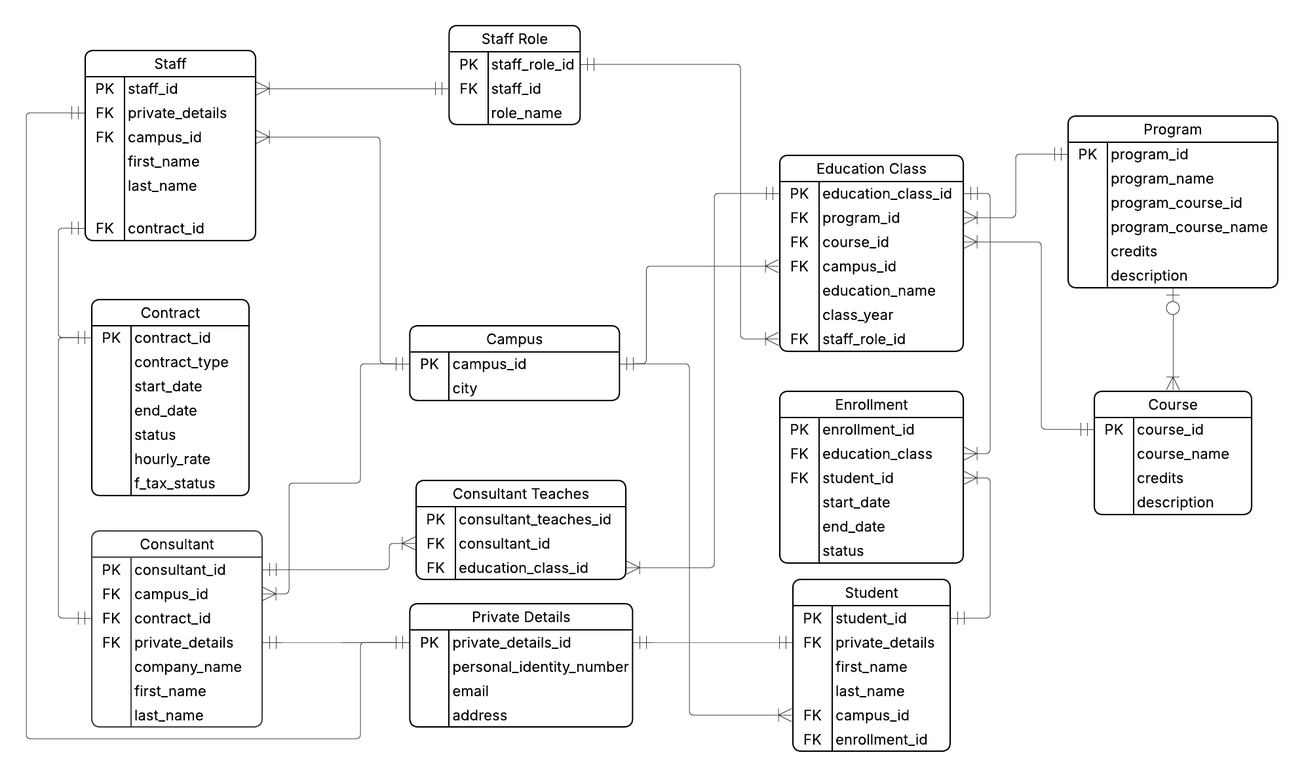
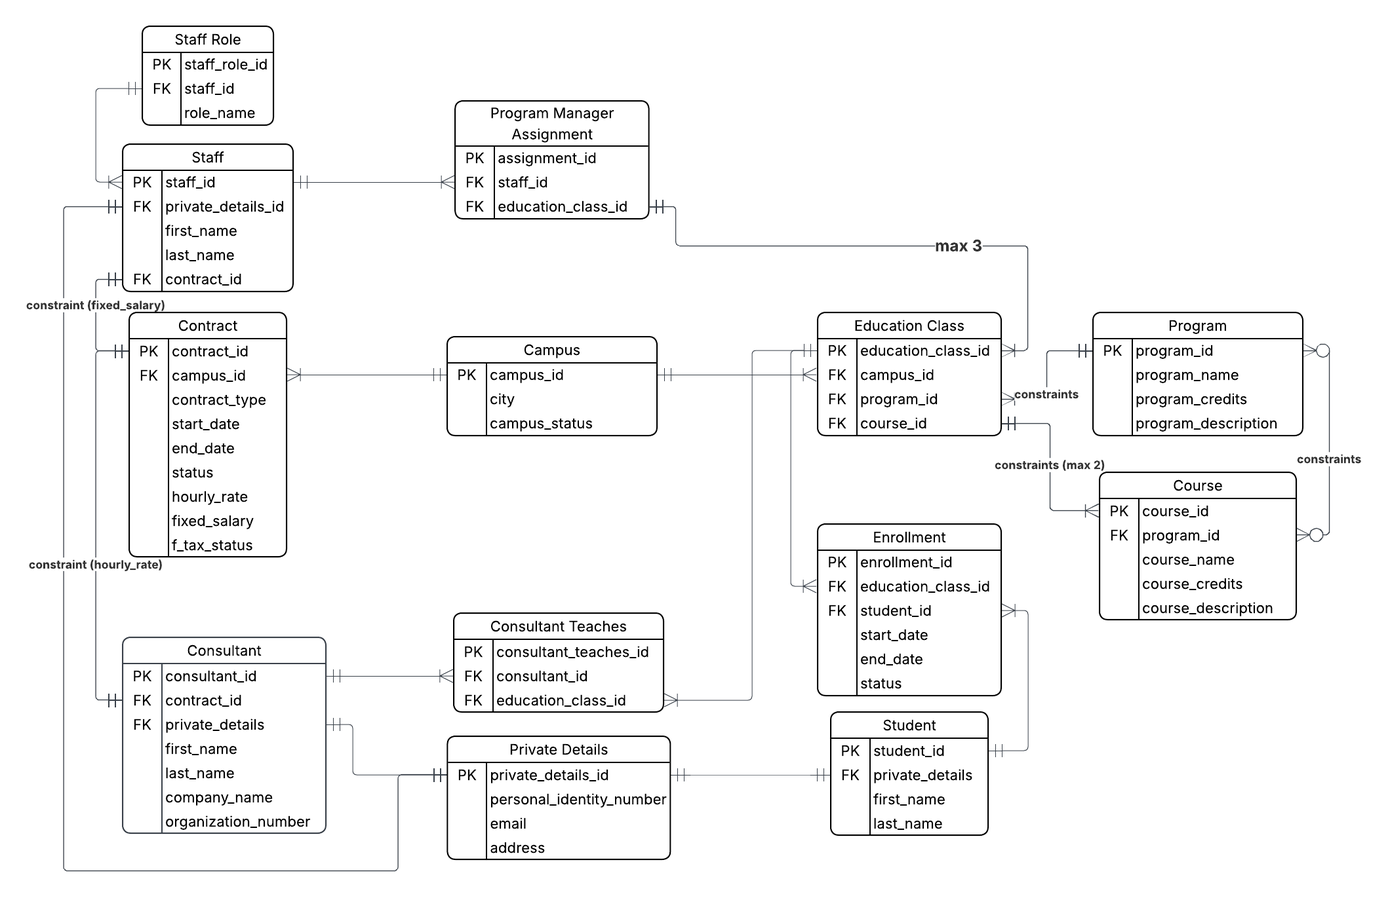
(feat): logical model: business requirements. (chore): Conceptual Model, Entities and Cardinalities.

diff --git a/documentation/conceptual.md b/documentation/conceptual.md
@@ -1,54 +1,51 @@
 # Conceptual Model
 ## Goal: 
-- Map out the big picture. Focus on the "things" (Entities) and how they relate (Relationships).
-- **The Stakeholder / the business explicitly forbids unresolved M:N, so bridge tables are already created in a CDM level.**
+- Map out the big picture for the business stakeholders. Focus on the "things" (Entities) and how they relate (Relationships).
 
 ![Conceptual Model](../assets/Conceptual.png)
 
 ## Entity Descriptions
 
-### Conceptual ERD – Entity Descriptions
-
-## Entity Descriptions (Easy English)
-
-| Entity | Description |
-|------|------------|
-| **Student** | A person who studies at the school. A student can join one program class or up to two standalone course classes in the same term, but not both at the same time. |
-| **Education Class** | A specific class offering of a program or course for a certain year and campus (for example DE 24 or AI 25). This is where teaching and student enrollment happen. |
-| **Program** | A two-year education made up of several courses, including a required internship (LIA). Each program is approved multiple times, creating several education classes over the years. |
-| **Course** | A standalone course with a set length, credits, and content. It is not part of a program and does not include an internship (LIA). |
-| **Campus** | A physical school location where classes take place and where staff and consultants work. The model allows new campuses to be added in the future. |
-| **Staff** | Employees of the school, such as program managers and administrative staff. Each staff member has one active role at a time, defined by their contract. |
-| **Staff Role** | Describes the job role a staff member has during an active contract. In this model, only the Program Manager role is included, but more roles can be added later. |
-| **Consultant** | External people hired to teach or support classes. Consultants work under contracts that define their role, campus, and time period. |
-| **Enrollment** | Shows that one student is enrolled in one education class. It connects students to the classes they attend. |
-| **Contract** | A work agreement for staff or consultants. It defines the role, campus, and time period, and allows future-dated contracts for planned hires. |
-| **Private Details** | Stores sensitive personal or company information, such as personal identity numbers, contact details, and consultant company data. This information is kept separate for security reasons. |
+| Entity                 | Description                                                                                                                                                                                                           |
+| ---------------------- | --------------------------------------------------------------------------------------------------------------------------------------------------------------------------------------------------------------------- |
+| **Student**            | A person studying at the school. A student enrolls in education classes through enrollment records. Business rules control whether a student enrolls in a program class or standalone course classes in a given term. |
+| **Education Class**    | A concrete, approved delivery of a program or course for a specific year and campus (for example, DE 24 or AI 25). Teaching, management, and student enrollment happen at this level.                                 |
+| **Program**            | A two-year education consisting of multiple courses, including a mandatory internship (LIA). Each program can be approved multiple times, resulting in multiple education classes over different years.               |
+| **Course**             | A standalone course with defined credits, duration, and content. Courses are not part of programs and do not include LIA. Each course can be delivered through multiple education classes over time.                  |
+| **Campus**             | A physical school location where education classes are held and where staff and consultants are assigned. The model supports future campus expansion.                                                                 |
+| **Staff**              | Internal employees of the school, such as program managers or administrative staff. Each staff member has exactly one active contract at a time.                                                                      |
+| **Staff Role**         | Defines the role a staff member holds during a contract period. In this model, Program Manager is explicitly modeled, with the ability to add more roles later.                                                       |
+| **Consultant**         | External professionals hired to teach or support education classes. Consultants work under time-limited contracts and may represent an external company.                                                              |
+| **Contract**           | A time-bound agreement for staff or consultants that defines role, campus assignment, and employment period. Only one contract may be active per person at any time.                                                  |
+| **Consultant Teaches** | A bridge entity that represents teaching assignments between consultants and education classes, resolving a many-to-many relationship.                                                                                |
+| **Enrollment**         | Represents a student’s enrollment in an education class. Each enrollment links exactly one student to exactly one education class.                                                                                    |
+| **Private Details**    | Stores sensitive personal or company information, such as personal identity numbers, contact details, and consultant company data. This data is isolated for security and access control purposes.                    |
 
 
+## Relationship Descriptions
 
-## Relationship Description:
-
-| Entity A | Entity B | Cardinality | Relationship Statement |
-|--------|----------|------------|------------------------|
-| **Program** | **Education Class** | 1 → many | One program is approved and delivered through multiple education classes over different years. |
-| **Course** | **Education Class** | 1 → many | One course can be delivered through multiple education classes over time. |
-| **Campus** | **Education Class** | 1 → many | One campus hosts multiple education classes. |
-| **Staff** | **Contract** | 1 → 1 (active) | Each staff member has exactly one active contract at a time that defines their role and campus assignment. |
-| **Consultant** | **Contract** | 1 → 1 (active) | Each consultant has exactly one active contract at a time defining their assignment and campus. |
-| **Staff Role** | **Contract** | 1 → many | A staff role can be assigned to many contracts over time, but each contract defines exactly one role. |
-| **Staff** | **Staff Role** | many → 1 (via Contract) | Each staff member holds exactly one role at a time, as defined by their active contract. |
-| **Education Class** | **Staff (Program Manager)** | many → 1 | Each education class is managed by exactly one staff member acting as Program Manager. |
-| **Staff (Program Manager)** | **Education Class** | 1 → many | One program manager is responsible for multiple education classes (minimum three). |
-| **Consultant** | **Consultant Teaches** | 1 → many | One consultant can teach multiple education classes. |
-| **Education Class** | **Consultant Teaches** | 1 → many | One education class can be taught by multiple consultants. |
-| **Consultant Teaches** | **Consultant** | many → 1 | Each teaching assignment belongs to exactly one consultant. |
-| **Consultant Teaches** | **Education Class** | many → 1 | Each teaching assignment belongs to exactly one education class. |
-| **Education Class** | **Enrollment** | 1 → many | One education class has many student enrollments. |
-| **Enrollment** | **Education Class** | many → 1 | Each enrollment belongs to exactly one education class. |
-| **Student** | **Enrollment** | 1 → many | One student can have multiple enrollments over time, but each enrollment represents one class. |
-| **Enrollment** | **Student** | many → 1 | Each enrollment belongs to exactly one student. |
-| **Student** | **Private Details** | 1 → 1 | Each student has exactly one set of private personal information. |
-| **Staff** | **Private Details** | 1 → 1 | Each staff member has exactly one set of private personal information. |
-| **Consultant** | **Private Details** | 1 → 1 | Each consultant has exactly one set of private personal or company-related information. |
-
+| Entity A                    | Entity B                    | Cardinality    | Relationship Statement                                                                                |
+| --------------------------- | --------------------------- | -------------- | ----------------------------------------------------------------------------------------------------- |
+| **Program**                 | **Education Class**         | 1 → many       | One program can be approved and delivered through multiple education classes over different years.    |
+| **Course**                  | **Education Class**         | 1 → many       | One course can be delivered through multiple education classes over time.                             |
+| **Campus**                  | **Education Class**         | 1 → many       | One campus hosts multiple education classes.                                                          |
+| **Staff**                   | **Contract**                | 1 → 1 (active) | Each staff member has exactly one active contract at a time.                                          |
+| **Consultant**              | **Contract**                | 1 → 1 (active) | Each consultant has exactly one active contract at a time.                                            |
+| **Staff Role**              | **Contract**                | 1 → many       | A staff role can be assigned to many contracts over time, but each contract defines exactly one role. |
+| **Education Class**         | **Staff (Program Manager)** | many → 1       | Each education class is managed by exactly one staff member acting as Program Manager.                |
+| **Staff (Program Manager)** | **Education Class**         | 1 → many       | One program manager is responsible for multiple education classes, with a minimum of three.           |
+| **Consultant**              | **Consultant Teaches**      | 1 → many       | One consultant can have multiple teaching assignments.                                                |
+| **Education Class**         | **Consultant Teaches**      | 1 → many       | One education class can have multiple consultant teaching assignments.                                |
+| **Consultant Teaches**      | **Consultant**              | many → 1       | Each teaching assignment belongs to exactly one consultant.                                           |
+| **Consultant Teaches**      | **Education Class**         | many → 1       | Each teaching assignment belongs to exactly one education class.                                      |
+| **Education Class**         | **Enrollment**              | 1 → many       | One education class can have many student enrollments.                                                |
+| **Enrollment**              | **Education Class**         | many → 1       | Each enrollment belongs to exactly one education class.                                               |
+| **Student**                 | **Enrollment**              | 1 → many       | One student can have multiple enrollments over time.                                                  |
+| **Enrollment**              | **Student**                 | many → 1       | Each enrollment belongs to exactly one student.                                                       |
+| **Student**                 | **Private Details**         | 1 → 1          | Each student has exactly one set of private personal information.                                     |
+| **Staff**                   | **Private Details**         | 1 → 1          | Each staff member has exactly one set of private personal information.                                |
+| **Consultant**              | **Private Details**         | 1 → 1          | Each consultant has exactly one set of private personal or company-related information.               |
+| **Staff**                      | **Program Manager Assignment** | 1 → many    | One staff member can have multiple program manager assignments over time. |
+| **Education Class**            | **Program Manager Assignment** | 1 → many     | Each education class have exactly one program manager assignment.    |
+| **Program Manager Assignment** | **Staff**                      | many → 1    | Each assignment belongs to exactly one staff member.                      |
+| **Program Manager Assignment** | **Education Class**            | 1 → 1       | Each Project Manager assignment links to many (max 3) education class.         |

diff --git a/documentation/business_requirements.md b/documentation/business_requirements.md
@@ -1,30 +1,204 @@
-# Business Clarifications
-### 1. Staffs, Consultants and Roles
-- Instructors: Can be permanent staff or external consultants.
-- Program Managers: Staff members who must manage at least three Education Classes. 
-- Each Education Class has exactly one manager. Can hold Education Class ie. (DE 24, DE 25, AI 24, AI 25, ...)
-- A staff member has exactly **one role at a time,** defined by their **active contract.**<br>
+# Business Requirements Documentation
+This document consolidates business domain / entity, and each section clearly describes business rules.
 
-#### 2. Program vs. Course (BONUS)
-- A Program consists of multiple courses over time.
-- A student can either:
-    - enroll in one program, or
-    -enroll in up to two (max) standalone courses per term.
-- A student cannot be enrolled in a program and standalone courses at the same time.
-- Enrollment represents exactly one student in exactly one education class.
-- A Course can belong to zero or one Program (standalone allowed)
-- Course must be either program or standalone (never both)
-- `program_id` IS `NOT NULL` → course is part of a program
-- `program_id` IS `NULL` → course is standalone
+## 1. Core Design Principles
+### 1.1 Modeling Scope
+- The database models a vocational school, Yrkesco, operating across multiple campuses.
+- The model supports programs, courses (including standalone courses), students, staff, consultants, education class, campus and contracts.
+- All many-to-many relationships are resolved via associative entities.
+- The model must satisfy Third Normal Form (3NF).
 
-### 3. System & Data Design
-- Security: Sensitive personal data is isolated in a separate table for strict access control. Sensitive Informations is in a separate secured table. It tracks company staffs and consultant details (Org#, F-tax, address, hourly rates, etc) and cannot be accessed publicly.
-- Planned employment of permanent instructors / consultants are handled through the Contract entity by allowing future-dated permanent contracts.
-<br>
-- Contracts: Used to manage staff roles and pre-plan future permanent hires.
-- A role for staffs and consultants cannot change unless the **contract is ended and a new one is created.**
-- Campus: Consultants and staffs are assigned **strictly to one campus per contract.**
-- The Campus table currently includes Gothenburg and Stockholm and allows future campuses to be added.
-<br>
-- Locations: Currently Gothenburg and Stockholm, but built to add more cities easily.
-- Flexibility: The model is built to allow new rules later without redesigning the foundation.
+### 1.2 Security & Data Governance
+- Sensitive personal or company-related data is isolated in a dedicated Private Details entity.
+- Private Details is not publicly accessible and is referenced via foreign keys only.
+- No sensitive attributes are duplicated across entities.
+
+## 2. People & Identity
+### 2.1 Student
+- Business Rules
+    - A student represents an individual studying at the school.
+    - A student enrolls in education classes via enrollment records.
+
+- A student can:
+    - enroll in one program, OR
+    - enroll in up to two standalone courses per term.
+    - A student may not be enrolled in a program and standalone courses at the same time.
+
+    - “how to enforce it?”, answer:
+        - Partial unique constraints
+        - CHECK constraints + subqueries
+        - Triggers
+        - Application-layer validation
+
+### Logical / Normalization Rules
+- Student stores only identity-level attributes.
+- Sensitive attributes are stored in Private Details.
+
+- Relationship:
+    - Student 1 → many Enrollment
+
+### 2.2 Staff
+- A staff and consultant has exactly **one role at a time,** defined by their **active contract.**
+
+| **Agreement**        | **Staff (Employee)**                       | **Consultant (External)**                   |
+| -------------------- | ------------------------------------------ | ------------------------------------------- |
+| Role status          | Internal employee of the school            | External service provider                   |
+| Contract type        | Permanent Employment contract              | Consulting/service agreement                |
+| Work scope (100%)    | Full-time employment                       | Full-time engagement (not employment)       |
+| Tax & social charges | Handled and reported by the school         | Handled by the consultant                   |
+| Legal responsibility | School is employer                         | Consultant is an independent business       |
+
+- Business Rules
+    - Staff are internal employees of the school.
+    - Each staff member has exactly one active contract at a time.
+    - Staff roles cannot change without ending the current contract.
+
+- Logical / Normalization Rules
+    - Staff references Contract and Private Details.
+
+- Salary rules:
+    - fixed_salary IS NOT NULL
+    - hourly_rate IS NULL
+
+### 2.3 Consultant
+- Business Rules
+    - Consultants are external service providers.
+    - Consultants only teach education classes.
+
+- Logical / Normalization Rules
+    - Consultant references Contract and Private Details.
+
+- Compensation rules:
+    - hourly_rate IS NOT NULL
+    - fixed_salary IS NULL
+
+### 2.4 Private Details
+- Business Rules
+    - Stores sensitive personal or company information.
+    - Includes personal identity number, email and address.
+
+- Logical / Normalization Rules
+    - One-to-one relationship with Student, Staff, and Consultant.
+    - No transitive dependencies.
+
+## 3. Contracts & Roles
+### 3.1 Contract
+
+- Business Rules
+    - A contract defines contract type, dates, status, hourly_rate, fixed_salary, f_tax_status, campus_id.
+    - Only one active contract is allowed per person.
+    - Contracts support planned employment.
+    - A role for staffs and consultants cannot change unless the **contract is ended and a new one is created.**
+    - Contracts are private and cannot be publicly accessed.
+
+
+- Logical / Normalization Rules
+    - Contract binds to exactly one Campus.
+    - Contract enforces role immutability during its active period.
+
+    - `Staff` → `fixed_salary` **IS NOT NULL** AND `hourly_rate` **IS NULL**
+    - `Consultant` → `hourly_rate` **IS NOT NULL** AND `fixed_salary` **IS NULL**
+
+### 3.2 Staff Role
+
+- Business Rules
+    - Defines staff responsibilities (e.g., Program Manager, VD, Admin, etc.).
+
+    - Each contract defines exactly one staff role.
+
+## 4. Education Structure
+### 4.1 Program
+
+- Business Rules
+    - A program is a two-year education consisting of multiple courses.
+    - Includes mandatory internship (LIA).
+    - Each program is approved multiple times, creating multiple education classes.
+
+- Logical / Normalization Rules
+    - Program 1 → many Education Classes
+
+### 4.2 Course
+
+- Business Rules
+    - A course has course name, credits, description, and program_id.
+
+- A course can either:
+    - belong to 0 or more programs ie.(Python -> DE24, DE25), OR
+    - be a standalone course.
+
+- Logical / Normalization Rules
+    - program_id nullable
+    - Constraint-based classification:
+    - IF `program_id` IS NOT NULL AND `course_id` IS NULL → program course
+    - IF `program_id` IS NULL AND `course_id` IS NOT NULL → standalone course
+    - And vice versa
+
+### 4.3 Education Class
+- Business Rules
+    - An Education Class is the only entity that connects Students to Programs or Courses.
+    - Represents an approved delivery of a program or course for a education_class and campus.
+    - Must be associated with either one Program or 1 or 2 (2 max) Course, never both.
+
+
+- Logical / Normalization Rules
+    - Mutually exclusive foreign keys:
+    - Exactly one of program_id or course_id must be populated.
+    - IF `program_id` IS NULL AND `course_id` IS NOT NULL → Student studies COURSE
+    - IF `program_id` IS NOT NULL AND `course_id` IS NULL → Student studies program
+
+## 5. Enrollment
+### 5.1 Enrollment
+
+- Business Rules
+    - Enrollment links one student to one education class.
+    - An education class may have many enrollments.
+
+- Logical / Normalization Rules
+    - Resolves the many-to-many relationship between Student and Education Class.
+
+## 6. Teaching & Management Assignments
+### 6.1 Consultant Teaches
+- Business Rules
+    - Consultants may teach multiple education classes.
+    - Education classes may be taught by multiple consultants.
+
+- Logical / Normalization Rules
+    - Resolves Consultant ↔ Education Class many-to-many relationship.
+
+### 6.2 Program Manager Assignment
+- Business Rules
+    - Each education class must have exactly one program manager.
+    - A program manager must manage at least three education classes.
+    - Maximum of three concurrent classes per program manager.
+
+- Logical / Normalization Rules
+    - Staff 1 → many Program Manager Assignments
+    - Education Class 1 → 1 Program Manager Assignment
+
+## 7. Campus
+### 7.1 Campus
+- Business Rules
+    - Represents a physical school location.
+    - Current campuses: Gothenburg and Stockholm.
+    - Supports future expansion.
+
+- Logical / Normalization Rules
+    - Campus 1 → many Education Classes
+
+    - Campus 1 → many Contracts
+    - Campus is derived via joins and not duplicated on dependent entities
+
+## 8. ### `Staff Role` Associate Table
+- The requirements mention different staff responsibilities but do not clearly define how staff roles are assigned.
+- To model staff responsibilities clearly and ensure that each staff member has one active role at a time, a `Staff Role` entity has been added.
+- This entity defines the role a staff member holds during an active contract.
+
+## 9. `Consultant Teaches` Associate Table
+- Instructors may be consultants but do not explain how consultants are assigned to education classes.
+- To model this clearly and avoid many-to-many relationships, a `Consultant Teaches` entity has been added.
+- This entity links a consultant to an education class they teach.
+
+## 9. `Program Manager Assignment` Associate Table
+- The requirements state that each education class must have a program manager, but do not explain how this assignment is handled.
+- To model this clearly and enforce the responsibility rules, a Program Manager Assignment entity has been added.
+- This entity links a program manager to the education classes they manage.

diff --git a/documentation/logical.md b/documentation/logical.md
@@ -1,18 +1,36 @@
 # Logical Model & Normalization (1NF -> 2NF -> 3NF)
 ## Goal: 
-- Refine the conceptual model into a formal structure. This is where I define primary keys and ensure my tables are organized efficiently.
+- Refine the conceptual model into a formal structure. This is where I define primary keys and ensure my tables and attributes are 3NF validated.
 
 ![Logical Model](../assets/Logical.png)
 
+## Consultant, Staff and Staff Role → Contract
+nforces “one role per active contract”
+- All attributes are still fully dependent on the primary key
+- No attribute is dependent on another isolated attribute 
+- No data redundancy exists if constraints are enforced in the model and business requirements
+    - `Staff` → `fixed_salary` **IS NOT NULL** AND `hourly_rate` **IS NULL**
+    - `Consultant` → `hourly_rate` **IS NOT NULL** AND `fixed_salary` **IS NULL**
 
-## Normalization Step: 
-- Apply 3NF here to eliminate redundancy (e.g., ensuring a student's address isn't repeated for every course they take)
+## Campus → Contract
+- One campus can be associated with many contracts. Each contract is assigned to exactly one campus.
 
-## 1NF: 
-- Remove duplicate columns and ensure "atomic" values66
+## Staff, Consultant and Student → Private Details
+- Sensitive personal data is isolated in a dedicated Private Details entity. 
+- Staff, Consultant, and Student reference this entity via foreign keys, ensuring that all non-key attributes depend solely on their respective primary keys. 
+- No sensitive attributes are duplicated, and no transitive dependencies exist.
 
-## 2NF: 
-- Ensure all attributes depend on the whole primary key77.
+## Staff → Program Manager Assignment →  Education Class
+- Staff 1 → many Program Manager Assignments
+- Education Class 1 → 1 Program Manager Assignment
+- Each class has exactly one Program Manager
+- A Program Manager manages multiple classes (max 3)
 
-## 3NF: 
-- Ensure attributes depend only on the primary key (no transitive dependencies).
+## Consultant → Consultant Teaches →  Education Class
+Consultant Teaches is modeled as a pure associative entity resolving the many-to-many relationship between Consultant and Education Class. It contains no descriptive attributes and introduces no transitive dependencies, ensuring Third Normal Form.
+
+## Student → Enrollment → Education Class → Campus
+Student stores only student identity attributes and references Private Details. Enrollment models the association between Student and Education Class, including enrollment lifecycle attributes. Campus is associated to Education Class, and is derived through joins rather than duplicated on Student, eliminating redundancy and transitive dependencies and ensuring 3NF.
+
+## Student → Enrollment →  Course (inclduing Standalone) / Program 
+Students enroll in Education Classes, which represent either approved program intakes or standalone course offerings. This is enforced by mutually exclusive foreign keys to Program or Course, making the enrollment rules explicit while maintaining Third Normal Form.
